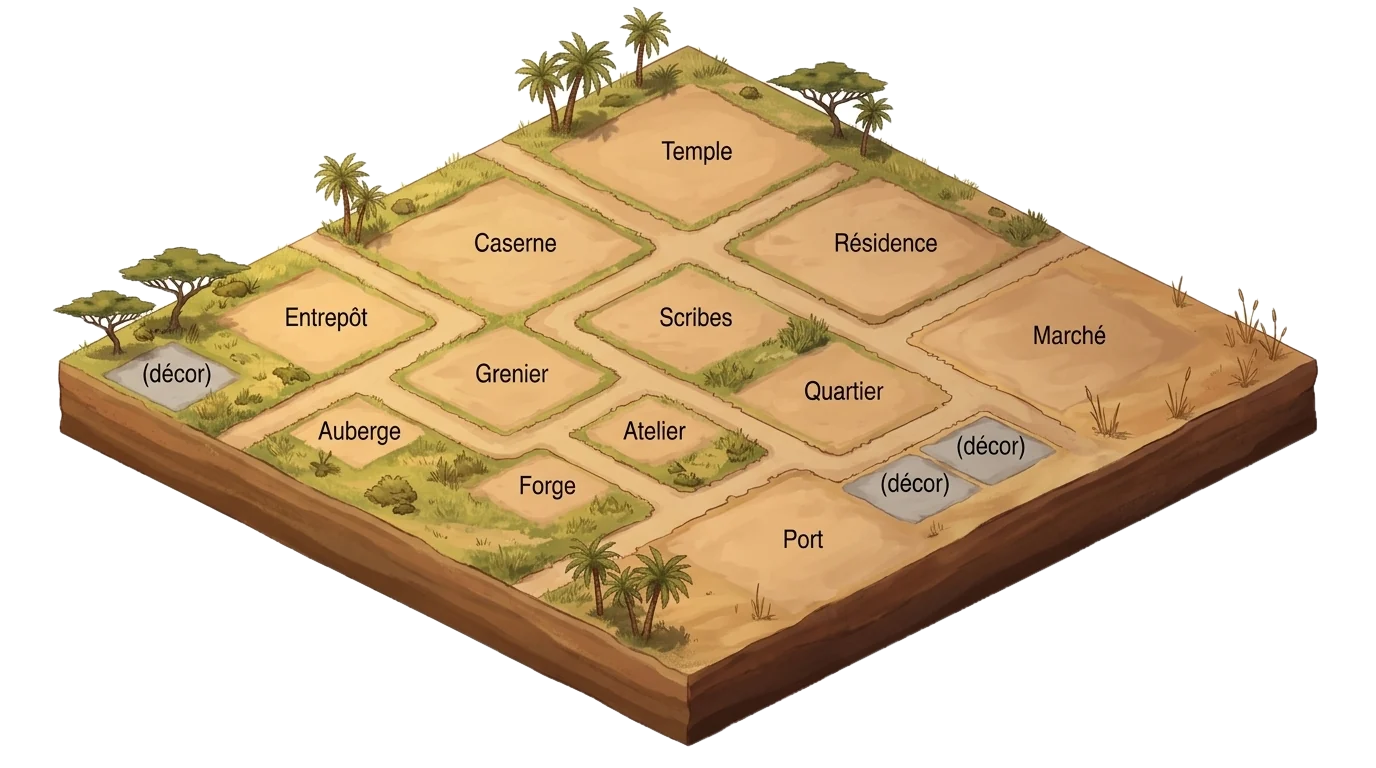
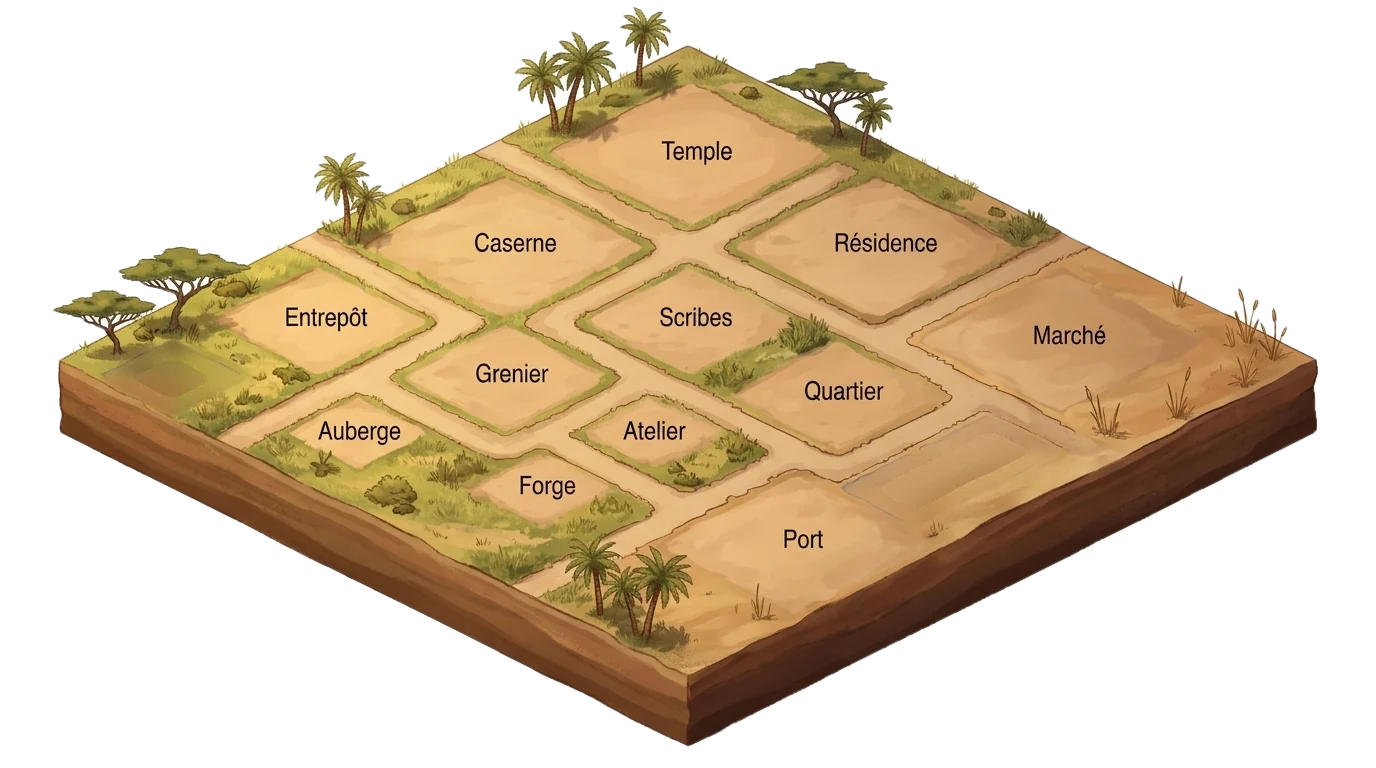
fix(ville): la fenêtre repasse devant les sprites, plan nettoyé
Les z-index des sprites (jusqu'à plusieurs centaines) passaient au-dessus de la
fenêtre : le conteneur de la vue a désormais son propre contexte d'empilement.
Le plan est préparé par un outil : fond transparent, losanges « décor » repeints,
fleuve estompé sur les bords qu'il touche.

Changed region(s): [[0.5938, 0.5312, 0.7812, 0.6875], [0.0625, 0.4375, 0.1875, 0.5312]]

diff --git a/outils/preparer-plans-de-ville.py b/outils/preparer-plans-de-ville.py
@@ -1,0 +1,127 @@
+#!/usr/bin/env python3
+"""Prepare les deux plans de ville (sources-sprites/v2/ville.jpeg, ville_port.jpeg)
+pour le jeu : app/assets/images/ville/{ville,ville_port}.webp.
+
+Quatre traitements, dans cet ordre :
+
+1. **Fond blanc -> transparent**, par remplissage depuis les bords, et seulement
+   depuis des pixels *blancs* : partir de n'importe quel pixel du bord rongeait
+   l'eau du fleuve, que le plan touche sur deux cotes.
+2. **Zones « decor » repeintes.** Le generateur a recopie le plan guide : trois
+   losanges gris et leurs etiquettes « (decor) » sont restes sur le sol. Les lots
+   les recouvrent, mais pas leur pourtour. On les remplace par la moyenne
+   ponderee de ce qui les entoure.
+3. **Fleuve en fondu** sur les deux bords du plan qu'il touche (droite et bas) : il
+   y etait coupe net, contre le fond de la page.
+4. Export WebP.
+
+Usage : python3 outils/preparer-plans-de-ville.py   (Pillow seul).
+"""
+import os
+from PIL import Image, ImageChops, ImageDraw, ImageFilter
+
+RACINE = os.path.abspath(os.path.join(os.path.dirname(__file__), '..'))
+SOURCES = os.path.join(RACINE, 'sources-sprites', 'v2')
+SORTIE = os.path.join(RACINE, 'app/assets/images/ville')
+MARQUE = (255, 0, 255)
+
+# Les trois losanges « decor » du plan (1376 x 768) : centre, demi-largeur, demi-hauteur,
+# mesures sur l'image, avec une marge pour le trait qui les borde.
+LOSANGES_DECOR = [(172, 378, 76, 40), (990, 451, 76, 40), (915, 489, 74, 40)]
+FONDU_DU_FLEUVE = 110  # pixels
+
+
+def transparent(im: Image.Image) -> Image.Image:
+    w, h = im.size
+    m = im.copy()
+    amorces = [(x, 0) for x in range(0, w, 6)] + [(x, h - 1) for x in range(0, w, 6)] \
+        + [(0, y) for y in range(0, h, 6)] + [(w - 1, y) for y in range(0, h, 6)]
+    for xy in amorces:
+        if min(im.getpixel(xy)) >= 238 and m.getpixel(xy) != MARQUE:
+            ImageDraw.floodfill(m, xy, MARQUE, thresh=10)
+    fond = ImageChops.difference(m, Image.new('RGB', (w, h), MARQUE)).convert('L').point(lambda v: 255 if v > 0 else 0)
+    alpha = fond.filter(ImageFilter.MinFilter(3)).filter(ImageFilter.GaussianBlur(0.8))
+    sortie = im.convert('RGBA')
+    sortie.putalpha(alpha)
+    return sortie
+
+
+def repeindre_decor(im: Image.Image) -> Image.Image:
+    """Remplace les losanges gris et leurs etiquettes par la couleur ambiante.
+
+    Le masque est un polygone explicite par losange, pas un seuil de couleur : le
+    gris du generateur varie, et un seuil laissait des morceaux de lettres. Le
+    remplissage est une moyenne ponderee des pixels voisins, a portee croissante
+    — le centre d'un losange est loin de tout pixel valide."""
+    rgb = im.convert('RGB')
+    w, h = rgb.size
+    masque = Image.new('L', (w, h), 0)
+    d = ImageDraw.Draw(masque)
+    for (cx, cy, hw, hh) in LOSANGES_DECOR:
+        d.polygon([(cx, cy - hh), (cx + hw, cy), (cx, cy + hh), (cx - hw, cy)], fill=255)
+
+    valide = ImageChops.invert(masque)
+    pondere = Image.composite(rgb, Image.new('RGB', (w, h), (0, 0, 0)), valide)
+    sortie = rgb.copy()
+    sp, mm = sortie.load(), masque.load()
+    rempli = Image.new('L', (w, h), 0)
+    rp = rempli.load()
+    for rayon in (10, 26, 60):
+        fc = pondere.filter(ImageFilter.GaussianBlur(rayon)).load()
+        fv = valide.filter(ImageFilter.GaussianBlur(rayon)).load()
+        for y in range(h):
+            for x in range(w):
+                if mm[x, y] and not rp[x, y] and fv[x, y] > 12:
+                    k = 255 / fv[x, y]
+                    c = fc[x, y]
+                    sp[x, y] = (min(255, int(c[0] * k)), min(255, int(c[1] * k)), min(255, int(c[2] * k)))
+                    rp[x, y] = 255
+    # Les bords du repeint sont adoucis : on fond avec l'original sur une frange.
+    frange = masque.filter(ImageFilter.GaussianBlur(3))
+    return Image.composite(sortie, rgb, frange).convert('RGBA')
+
+
+def fondre_le_fleuve(im: Image.Image) -> Image.Image:
+    """Estompe l'eau (bleue) vers les bords droit et bas, seulement elle."""
+    w, h = im.size
+    px = im.load()
+    eau = Image.new('L', (w, h), 0)
+    ep = eau.load()
+    for y in range(h):
+        for x in range(w):
+            r, g, b, a = px[x, y]
+            if a > 100 and b > r + 14 and b > 90:
+                ep[x, y] = 255
+    eau = eau.filter(ImageFilter.GaussianBlur(3))
+    ep = eau.load()
+    alpha = im.getchannel('A')
+    ap = alpha.load()
+    for y in range(h):
+        for x in range(w):
+            if ep[x, y] < 8:
+                continue
+            d = min(w - 1 - x, h - 1 - y)  # distance au bord droit ou bas le plus proche
+            if d >= FONDU_DU_FLEUVE:
+                continue
+            t = (d / FONDU_DU_FLEUVE) ** 1.4
+            poids = ep[x, y] / 255
+            ap[x, y] = int(ap[x, y] * (1 - poids * (1 - t)))
+    sortie = im.copy()
+    sortie.putalpha(alpha)
+    return sortie
+
+
+def main() -> None:
+    for nom, fleuve in (('ville', False), ('ville_port', True)):
+        src = os.path.join(SOURCES, nom + '.jpeg')
+        im = Image.open(src).convert('RGB')
+        im = repeindre_decor(im).convert('RGB')
+        im = transparent(im)
+        if fleuve:
+            im = fondre_le_fleuve(im)
+        im.save(os.path.join(SORTIE, nom + '.webp'), quality=86, method=6)
+        print(nom, im.size)
+
+
+if __name__ == '__main__':
+    main()
